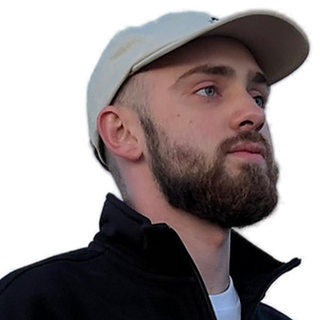
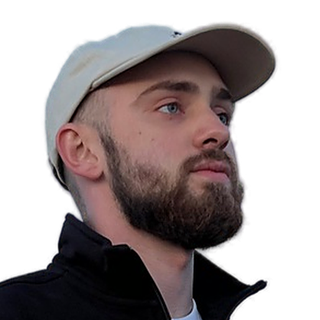
Аватарка: голова по центру круга, а не у правого края

diff --git a/tools/avatar.py b/tools/avatar.py
@@ -41,12 +41,13 @@ def face(src: Path) -> None:
     rgb.putalpha(cut.getchannel("A"))
     rgb.save(OUT / "face.png", optimize=True)
     print("face.png", rgb.size)
-    # Голова крупно — для кружков-аватарок: квадрат вокруг лица и кепки.
+    # Голова крупно — для кружков-аватарок: квадрат по центру головы с кепкой
+    # (верхние 40% кадра — ниже уже плечи), над кепкой немного воздуха.
     alpha = rgb.getchannel("A")
-    left, top, right, _ = alpha.crop((0, 0, rgb.width, round(rgb.height * 0.55))).point(lambda a: 255 if a > 8 else 0).getbbox()
-    size = round(rgb.width * 0.6)
-    cx = right - size // 2 + 10
-    head = rgb.crop((cx - size // 2, max(top - 10, 0), cx + size // 2, max(top - 10, 0) + size))
+    left, top, right, _ = alpha.crop((0, 0, rgb.width, round(rgb.height * 0.4))).point(lambda a: 255 if a > 8 else 0).getbbox()
+    size = round(rgb.width * 0.58)
+    cx = (left + right) // 2
+    head = rgb.crop((cx - size // 2, top - 28, cx + size // 2, top - 28 + size))
     head.resize((320, 320), Image.LANCZOS).save(OUT / "head.png", optimize=True)
     print("head.png", head.size)
 
